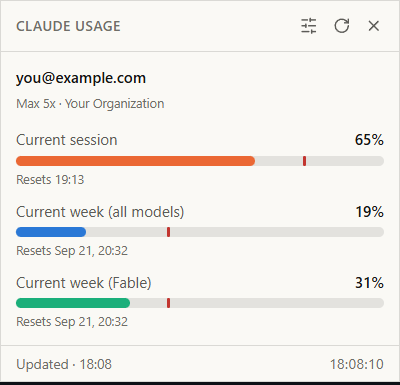
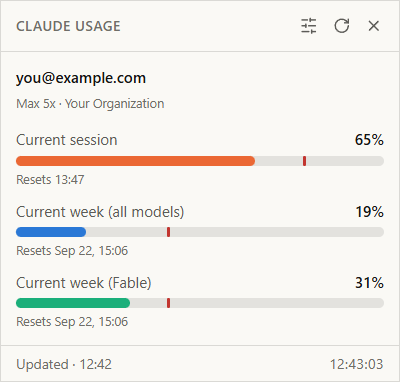
fix(layout): fit the window to the card, to the device pixel
The window was a pixel or three taller than the card. That is invisible
in use - the window is transparent - but a screenshot keeps whatever was
behind it, which is the dark strip along the foot of the one in the
README. The page now measures the card's own box rather than adding up
rounded parts, and the window is sized in device pixels, rounded to the
one the renderer actually paints to.

diff --git a/src/main.ts b/src/main.ts
@@ -87,17 +87,19 @@ async function fitWindow(): Promise<void> {
   await document.fonts.ready.catch(() => undefined);
   await new Promise<void>((resolve) => requestAnimationFrame(() => resolve()));
 
-  const bar = document.querySelector<HTMLElement>(".bar");
+  // The card's own box is what the window should match, measured rather than
+  // rounded: `offsetHeight` is an integer, and adding up rounded parts left the
+  // window a pixel out either way - short of the card clipped its bottom
+  // border, over it left a line of desktop showing through.
+  //
+  // While the icon is up the card is deliberately `100vh`, so measuring it then
+  // would only hand the window's own height back; the content it holds is what
+  // decides how tall the window should be.
   const style = getComputedStyle(bodyEl);
   const padding = parseFloat(style.paddingTop) + parseFloat(style.paddingBottom);
-  // `contentEl` keeps its natural height; `bodyEl` is flex:1 and would just
-  // report the viewport back.
-  const height =
-    (bar?.offsetHeight ?? 0) +
-    contentEl.offsetHeight +
-    padding +
-    footerEl.offsetHeight +
-    CARD_BORDERS;
+  const height = loading
+    ? contentEl.getBoundingClientRect().height + padding + CARD_BORDERS
+    : cardEl.getBoundingClientRect().height;
 
   if (!Number.isFinite(height) || Math.abs(height - lastFitted) < FIT_EPSILON) {
     return;

diff --git a/src-tauri/src/layout.rs b/src-tauri/src/layout.rs
@@ -10,7 +10,7 @@
 //! the maths always goes through the *current* monitor's origin, size and scale
 //! factor rather than any global assumption.
 
-use tauri::{LogicalPosition, LogicalSize, Runtime, WebviewWindow};
+use tauri::{LogicalPosition, LogicalSize, PhysicalSize, Runtime, WebviewWindow};
 
 /// Logical width the widget prefers. Logical units already absorb the display's
 /// DPI scaling, so this is the same apparent size at 100% and at 125%.
@@ -89,22 +89,32 @@ pub fn fit<R: Runtime>(window: &WebviewWindow<R>, content_height: f64) -> tauri:
 
     let (max_width, max_height) = area.max_size();
     let width = clamp(PREFERRED_WIDTH, MIN_WIDTH, max_width);
-    let height = clamp(fitted_height(content_height), MIN_HEIGHT, max_height);
+    let scale = window.scale_factor().unwrap_or(1.0);
+    let height = clamp(fitted_height(content_height, scale), MIN_HEIGHT, max_height);
 
-    window.set_size(LogicalSize::new(width, height))?;
+    // Sized in device pixels, not logical ones: converting a logical size rounds
+    // again, and that round left the window a pixel taller than the card. The
+    // window is transparent, so the extra pixel is a line of whatever is behind
+    // it - invisible in use, but a screenshot keeps it.
+    window.set_size(PhysicalSize::new(
+        (width * scale).round().max(1.0) as u32,
+        (height * scale).round().max(1.0) as u32,
+    ))?;
     reposition(window, &area, width, height)
 }
 
-/// The height to ask for, given what the page measured.
+/// The height to ask for, given what the page measured, in whole device pixels.
 ///
-/// One logical pixel more than measured. The window is sized in whole device
-/// pixels, so a height that is exact in CSS pixels can land a fraction short of
-/// what the page laid out - at 125% scaling the client area came back 1px
-/// shorter than the card, which clipped the card's bottom border off the screen.
-/// The card is `height: 100vh`, so the slack is absorbed rather than left as a
-/// gap.
-fn fitted_height(content_height: f64) -> f64 {
-    (content_height + 1.0).ceil()
+/// Rounded rather than ceilinged. A card measuring 305.75 CSS px at 125% is
+/// 382.19 device pixels, and the renderer paints 382 of them: the last fifth of
+/// a pixel carries almost nothing. Asking for 383 left a line of window with no
+/// card on it, and the window is transparent, so that line is whatever happens
+/// to be behind it - invisible in use, but a screenshot keeps it.
+fn fitted_height(content_height: f64, scale: f64) -> f64 {
+    if scale <= 0.0 {
+        return content_height.round();
+    }
+    (content_height * scale).round().max(1.0) / scale
 }
 
 /// Places the window at the top-right of its work area at a provisional height,
@@ -169,11 +179,15 @@ mod tests {
     }
 
     #[test]
-    fn the_fitted_height_leaves_room_for_the_bottom_border() {
-        // Whole device pixels are what the window is actually sized in, so a
-        // measurement that is exact in CSS pixels still has to round up.
-        assert_eq!(fitted_height(305.6), 307.0);
-        assert_eq!(fitted_height(304.0), 305.0);
+    fn the_fitted_height_lands_on_a_whole_device_pixel() {
+        // 305.6 CSS px at 125% is 382 device px exactly.
+        assert_eq!(fitted_height(305.6, 1.25), 305.6);
+        // 305.75 is 382.19, and 382 is what gets painted.
+        assert_eq!(fitted_height(305.75, 1.25), 382.0 / 1.25);
+        // 306.0 is 382.5, which rounds the other way.
+        assert_eq!(fitted_height(306.0, 1.25), 383.0 / 1.25);
+        // Without scaling it is just a rounding.
+        assert_eq!(fitted_height(304.2, 1.0), 304.0);
     }
 
     #[test]
